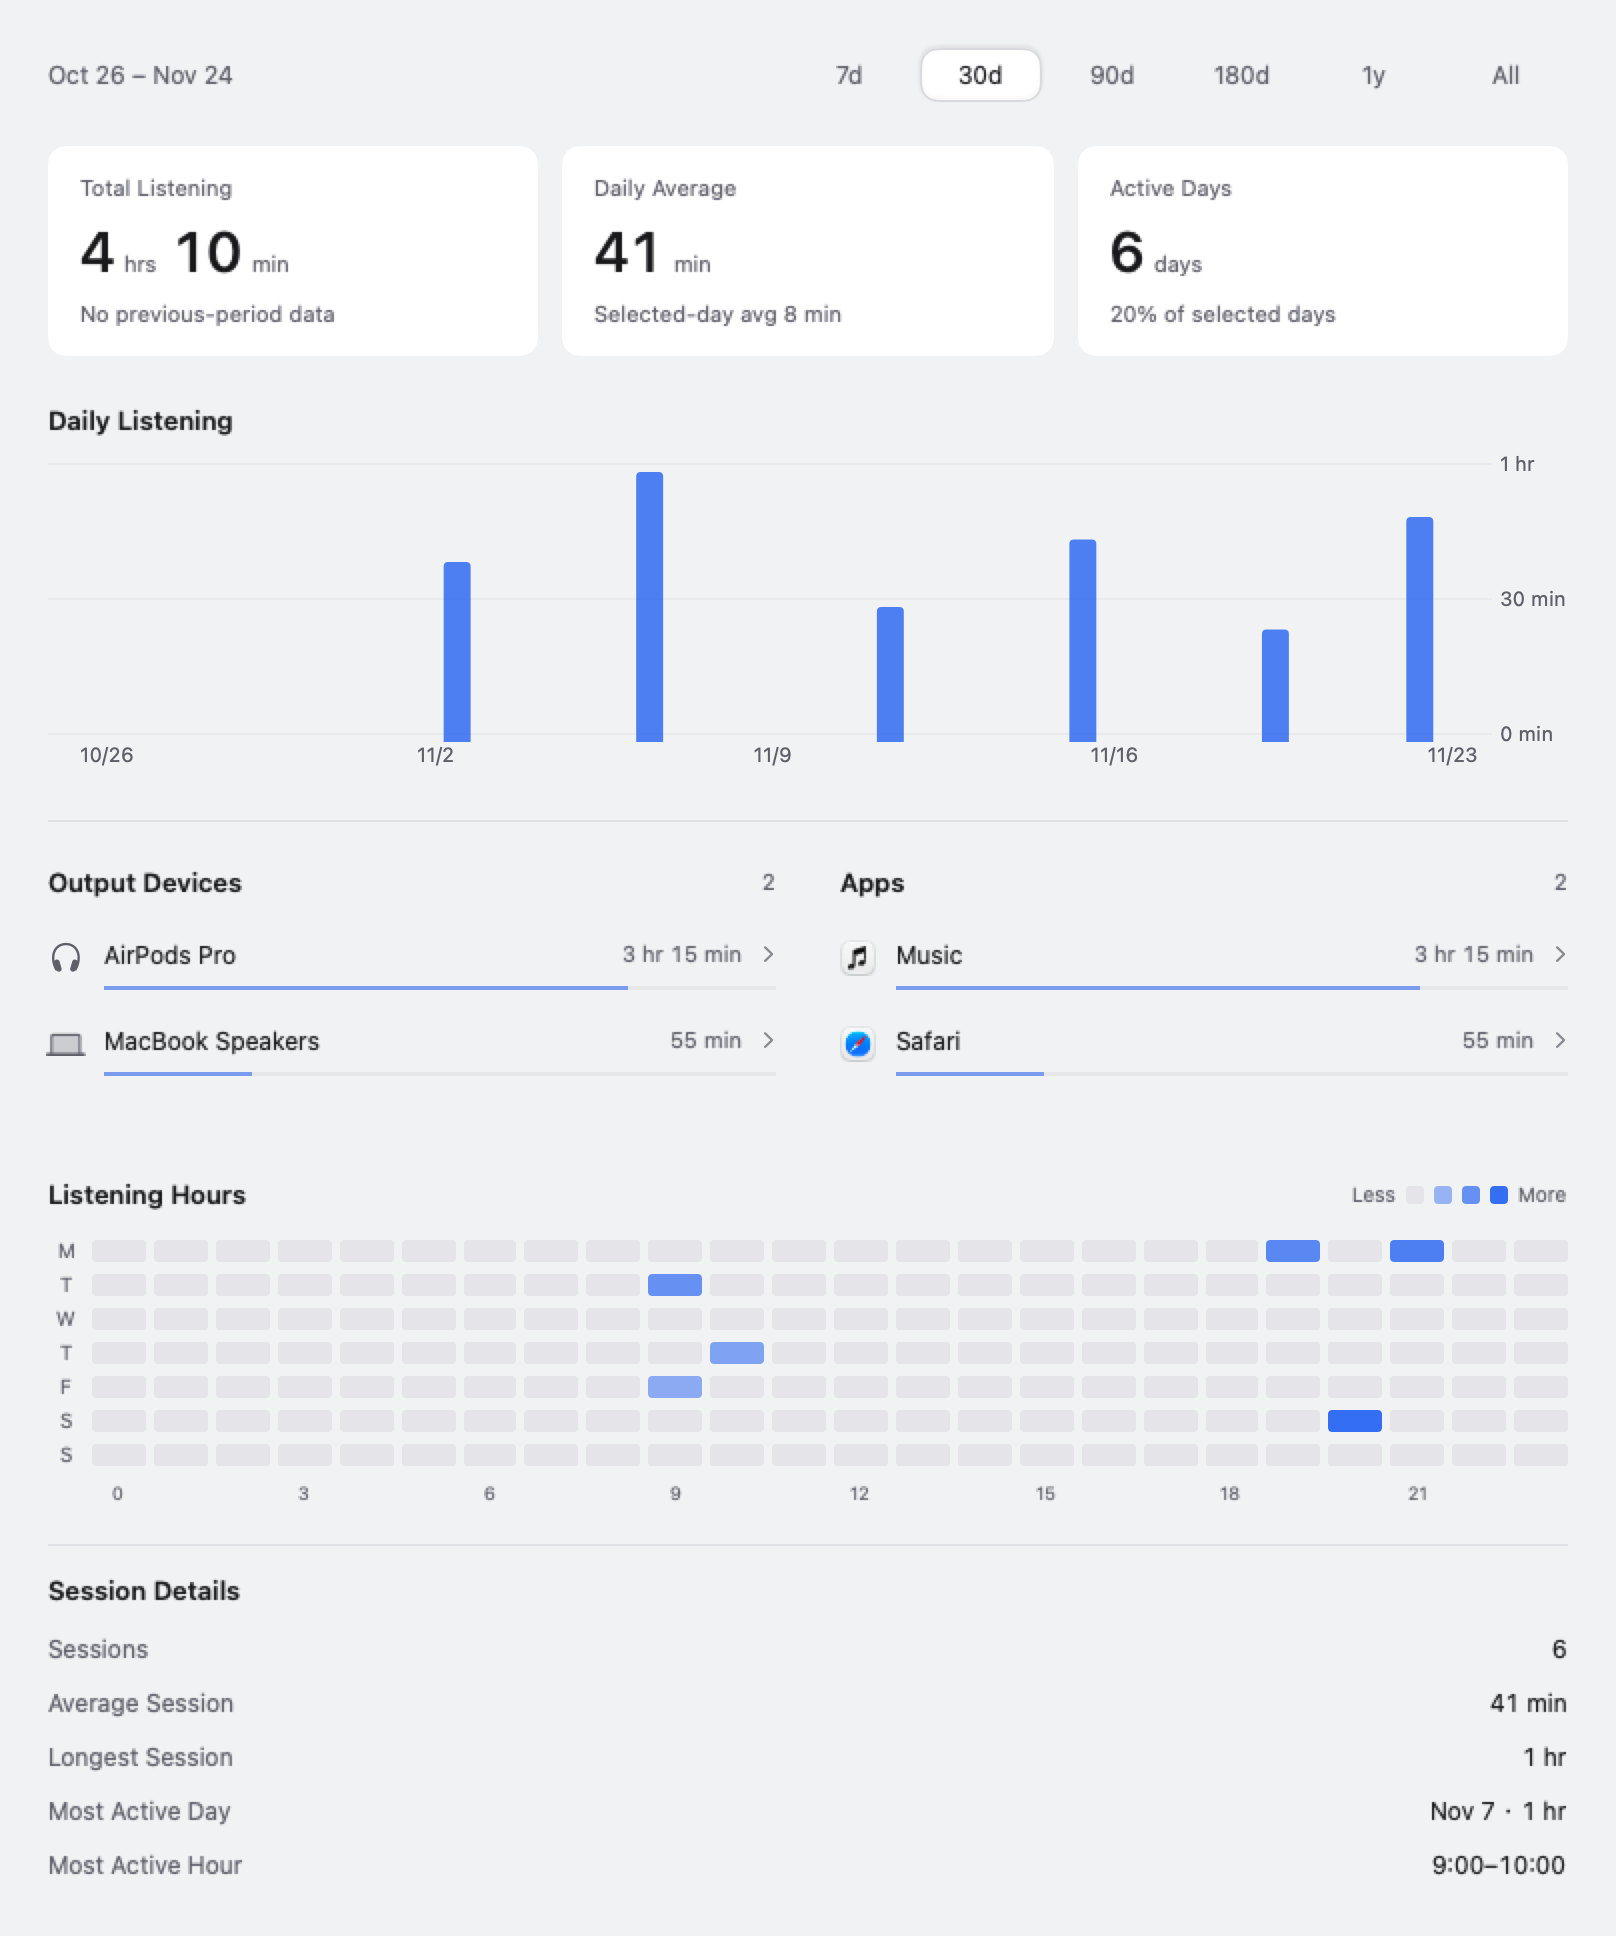
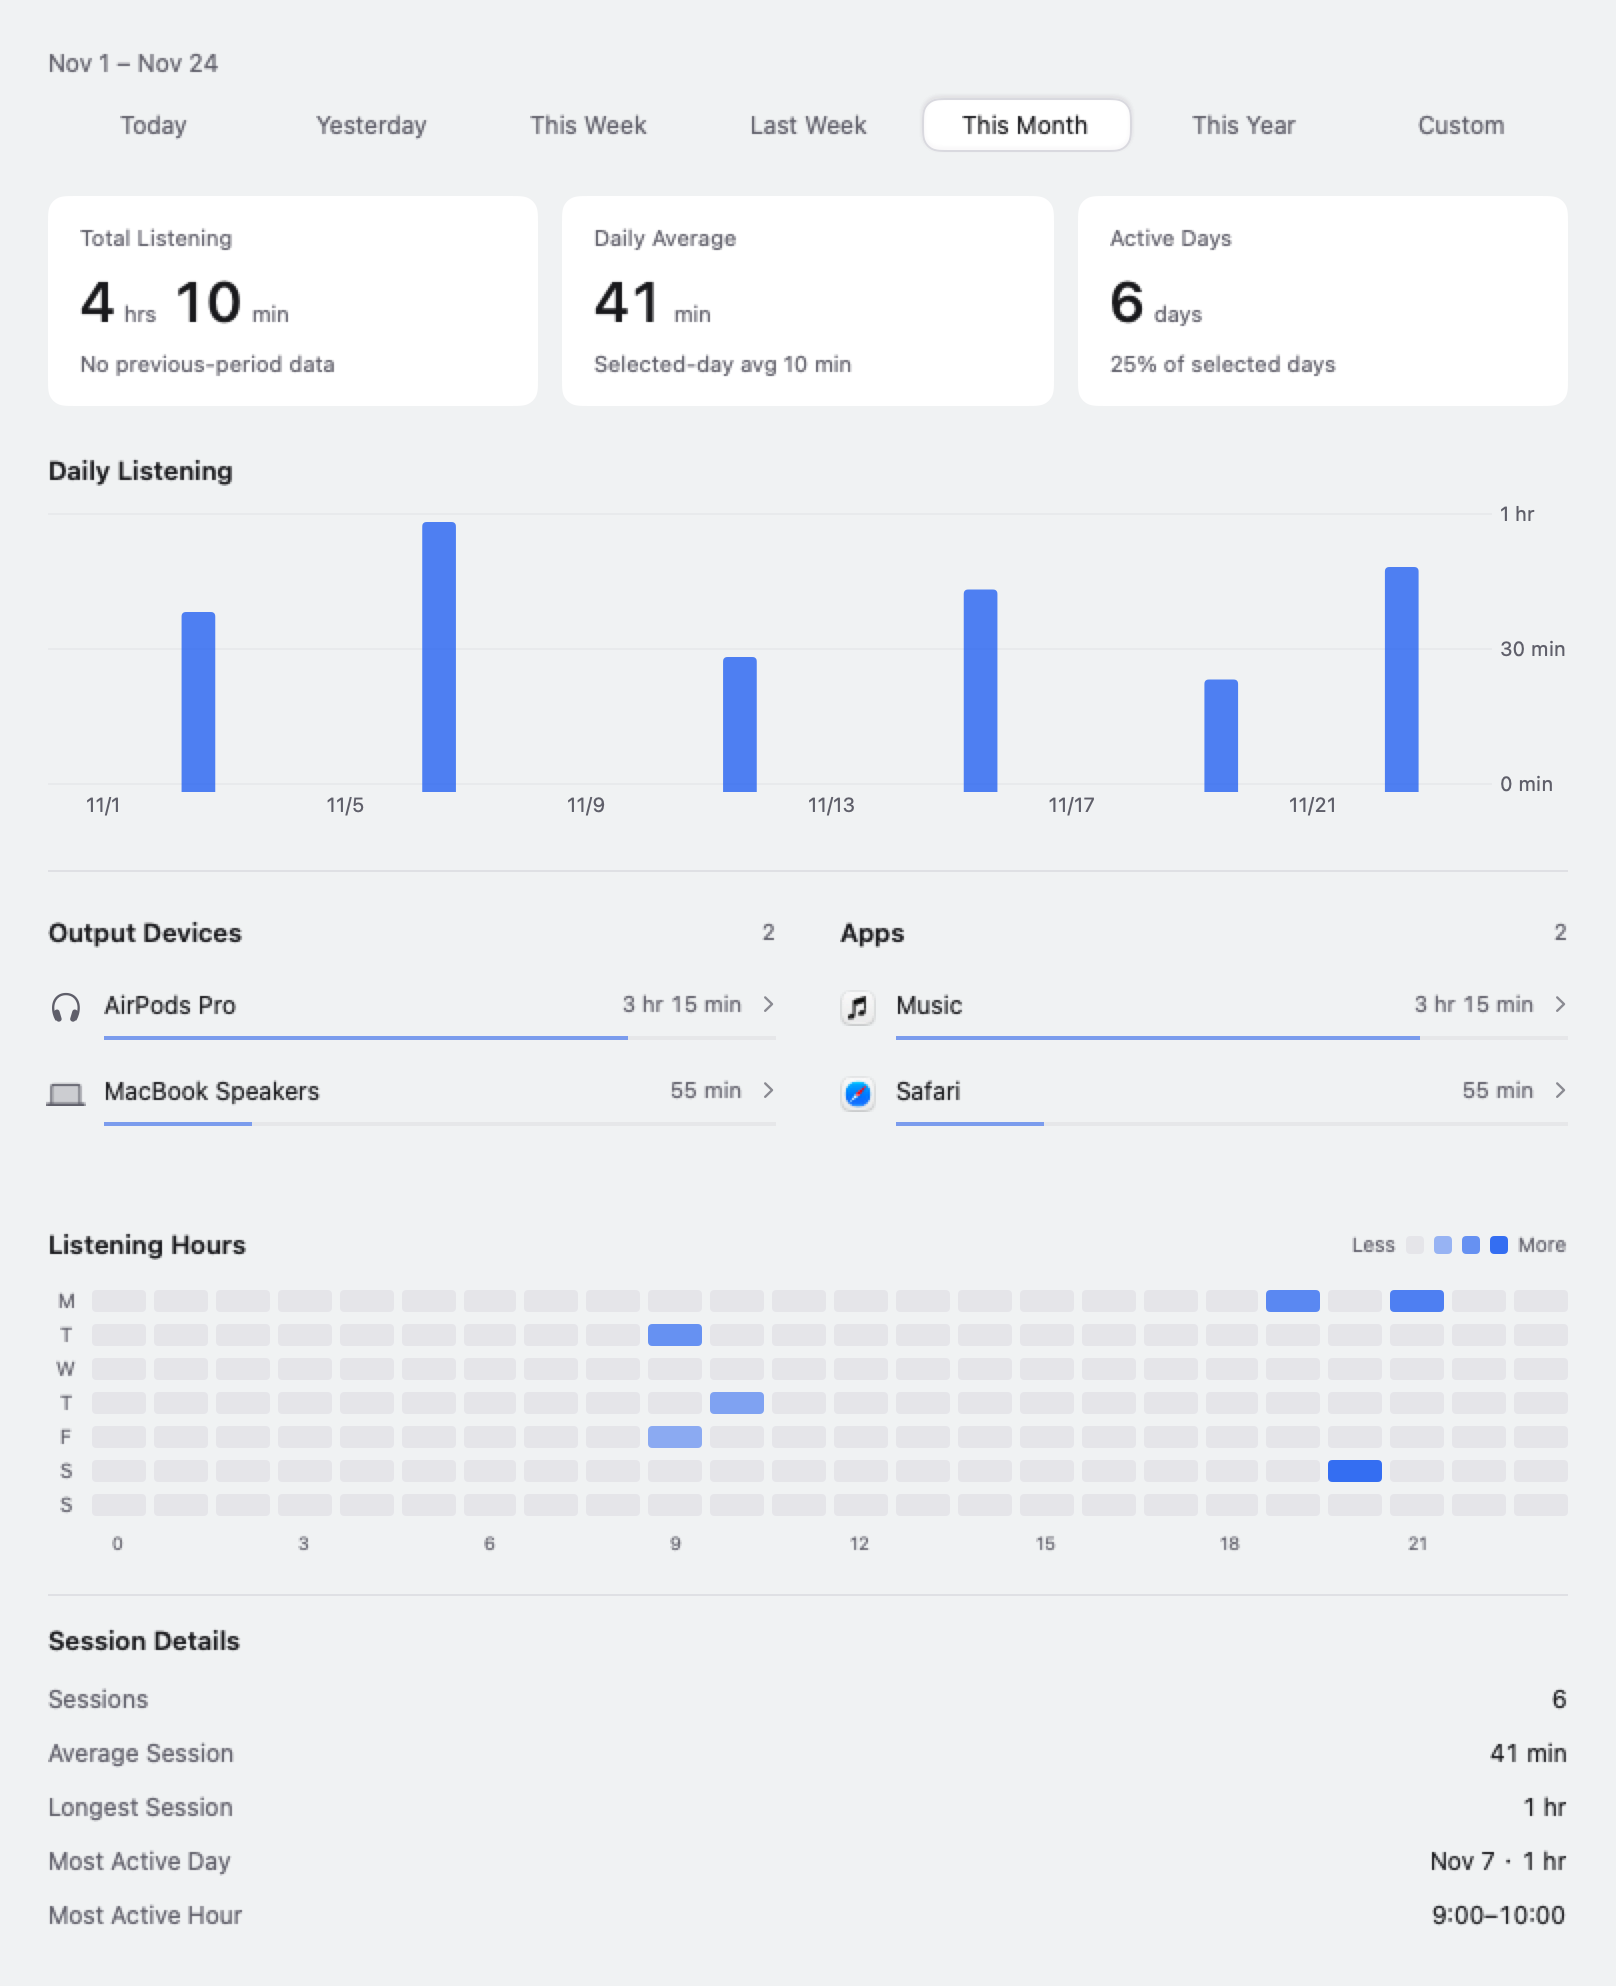
docs(readme): refresh version 0.4.7 previews
1. 更新中英文主面板与统计页截图
2. 核对其他功能截图并同步图片来源与版本标记

diff --git a/README.md b/README.md
@@ -18,9 +18,9 @@
   <a href="docs/CHANGELOG.md">What's changed</a>
 </p>
 <p align="center">
-  <a href="docs/images/hero-en.png"><img src="docs/images/hero-en.png?v=0.4.1" width="440" alt="Auxmo output panel with speaker and headphone controls, independent Chrome and Music volumes, and per-app route buttons" /></a>
+  <a href="docs/images/hero-en.png"><img src="docs/images/hero-en.png?v=0.4.7" width="440" alt="Auxmo output panel with speaker and headphone controls, independent Chrome and Music volumes, and per-app route buttons" /></a>
 </p>
-<p align="center"><sub>UI previews use sample devices and apps rendered by Auxmo 0.4.1, not a live audio session. <a href="docs/images/README.md">Image sources</a>.</sub></p>
+<p align="center"><sub>UI previews use sample devices and apps rendered by Auxmo 0.4.7, not a live audio session. <a href="docs/images/README.md">Image sources</a>.</sub></p>
 
 > Free and open source. No account required. Current downloads are ad-hoc signed and **not notarized by Apple**; macOS may block launch. [Distribution details](docs/TRUST_AND_TESTING.md#distribution-and-permissions).
 
@@ -39,24 +39,24 @@ Use **Mute All** at the top-right of the main panel to temporarily mute app audi
 <td width="50%" valign="top">
 <h3>Mix apps independently</h3>
 <p>Give Chrome and Music different volumes, mute either app, and see live levels while the panel is open.</p>
-<a href="docs/images/mixer-en.png"><img src="docs/images/mixer-en.png?v=0.4.1" width="440" alt="Separate Chrome and Music volume sliders with effects and routing buttons" /></a>
+<a href="docs/images/mixer-en.png"><img src="docs/images/mixer-en.png?v=0.4.7" width="440" alt="Separate Chrome and Music volume sliders with effects and routing buttons" /></a>
 </td>
 <td width="50%" valign="top">
 <h3>Choose more than one output</h3>
 <p>Build a speaker-and-headphone group, keep individual device controls, and choose a different subset for each app.</p>
-<a href="docs/images/outputs-en.png"><img src="docs/images/outputs-en.png?v=0.4.1" width="440" alt="Multi-device output editor with speakers and AirPods Pro selected" /></a>
+<a href="docs/images/outputs-en.png"><img src="docs/images/outputs-en.png?v=0.4.7" width="440" alt="Multi-device output editor with speakers and AirPods Pro selected" /></a>
 </td>
 </tr>
 <tr>
 <td width="50%" valign="top">
 <h3>Shape each app's sound</h3>
 <p>A 10-band EQ, spatial effects, volume leveling, and channel controls. Save presets and compare with the original.</p>
-<a href="docs/images/effects-en.png"><img src="docs/images/effects-en.png?v=0.4.1" width="440" alt="Music effects window showing the ten-band equalizer, response preview, and Compare Original control" /></a>
+<a href="docs/images/effects-en.png"><img src="docs/images/effects-en.png?v=0.4.7" width="440" alt="Music effects window showing the ten-band equalizer, response preview, and Compare Original control" /></a>
 </td>
 <td width="50%" valign="top">
 <h3>Keep headphone controls nearby</h3>
 <p>Check battery levels and change the listening modes your exact model exposes. Controls vary by device and firmware.</p>
-<a href="docs/images/headphones-en.png"><img src="docs/images/headphones-en.png?v=0.4.1" width="440" alt="Example headphone battery readings with noise cancellation, transparency, and adaptive controls" /></a>
+<a href="docs/images/headphones-en.png"><img src="docs/images/headphones-en.png?v=0.4.7" width="440" alt="Example headphone battery readings with noise cancellation, transparency, and adaptive controls" /></a>
 </td>
 </tr>
 </table>
@@ -66,9 +66,9 @@ Use **Mute All** at the top-right of the main panel to temporarily mute app audi
 Open the detail window from the menu bar and choose **Insights → Statistics** to see listening totals, daily trends, device and app rankings, listening hours, and session details. Choose today, yesterday, this week, last week, this month, this year, or a custom range; select a device or app to see its own details and related rankings.
 
 <p align="center">
-  <a href="docs/images/statistics-en.png"><img src="docs/images/statistics-en.png" width="820" alt="Auxmo listening statistics preview with time range, listening totals, daily chart, output devices, app rankings, and listening-hours heatmap" /></a>
+  <a href="docs/images/statistics-en.png"><img src="docs/images/statistics-en.png?v=0.4.7" width="820" alt="Auxmo listening statistics preview with time range, listening totals, daily chart, output devices, app rankings, and listening-hours heatmap" /></a>
 </p>
-<p align="center"><sub>Statistics preview rendered from the 0.4.5 development version with sample data, not a real user's records. <a href="docs/images/README.md">Image sources</a>.</sub></p>
+<p align="center"><sub>Statistics preview rendered from version 0.4.7 with sample data, not a real user's records. <a href="docs/images/README.md">Image sources</a>.</sub></p>
 
 Statistics record audio activity observed while Auxmo runs on the Mac and are stored locally. They are not complete screen-time data and do not read iPhone Health data. App-to-device associations use confirmed output routes; historical records, sampling intervals, and session boundaries remain estimates. In **Settings → Statistics Data**, you can see the first recorded date, export JSON, or clear the records after confirmation.
 

diff --git a/README.zh-CN.md b/README.zh-CN.md
@@ -18,9 +18,9 @@
   <a href="docs/CHANGELOG.md">更新记录</a>
 </p>
 <p align="center">
-  <a href="docs/images/hero-zh.png"><img src="docs/images/hero-zh.png?v=0.4.1" width="440" alt="Auxmo 主面板：扬声器、耳机、多设备输出，以及 Chrome 和 Music 的独立音量与路由按钮" /></a>
+  <a href="docs/images/hero-zh.png"><img src="docs/images/hero-zh.png?v=0.4.7" width="440" alt="Auxmo 主面板：扬声器、耳机、多设备输出，以及 Chrome 和 Music 的独立音量与路由按钮" /></a>
 </p>
-<p align="center"><sub>界面预览由 Auxmo 0.4.1 使用示例设备和应用数据渲染，并非实时音频会话。<a href="docs/images/README.md">图片来源</a>。</sub></p>
+<p align="center"><sub>界面预览由 Auxmo 0.4.7 使用示例设备和应用数据渲染，并非实时音频会话。<a href="docs/images/README.md">图片来源</a>。</sub></p>
 
 > 免费、开源，无需账号。当前下载包使用 ad-hoc 签名，**尚未经过 Apple 公证**，macOS 可能阻止启动。[分发与权限说明](docs/TRUST_AND_TESTING.md#中文说明)。
 
@@ -39,24 +39,24 @@
 <td width="50%" valign="top">
 <h3>每个 App，单独调节</h3>
 <p>给 Chrome 和 Music 设置不同音量，单独静音；面板打开时可查看实时电平。</p>
-<a href="docs/images/mixer-zh.png"><img src="docs/images/mixer-zh.png?v=0.4.1" width="440" alt="Chrome 与 Music 的独立音量滑杆、音效和路由入口" /></a>
+<a href="docs/images/mixer-zh.png"><img src="docs/images/mixer-zh.png?v=0.4.7" width="440" alt="Chrome 与 Music 的独立音量滑杆、音效和路由入口" /></a>
 </td>
 <td width="50%" valign="top">
 <h3>一个输出组，多种去向</h3>
 <p>把扬声器和耳机加入同一组，保留各设备的独立控制，再为每个 App 选择组内输出。</p>
-<a href="docs/images/outputs-zh.png"><img src="docs/images/outputs-zh.png?v=0.4.1" width="440" alt="多设备输出编辑器中同时勾选 MacBook 扬声器与 AirPods Pro" /></a>
+<a href="docs/images/outputs-zh.png"><img src="docs/images/outputs-zh.png?v=0.4.7" width="440" alt="多设备输出编辑器中同时勾选 MacBook 扬声器与 AirPods Pro" /></a>
 </td>
 </tr>
 <tr>
 <td width="50%" valign="top">
 <h3>按 App 调整听感</h3>
 <p>十段 EQ、空间效果、音量均衡与声道控制。保存自己的预设，也能随时对比原声。</p>
-<a href="docs/images/effects-zh.png"><img src="docs/images/effects-zh.png?v=0.4.1" width="440" alt="Music 音效窗口：十段均衡器、频响预览与对比原声按钮" /></a>
+<a href="docs/images/effects-zh.png"><img src="docs/images/effects-zh.png?v=0.4.7" width="440" alt="Music 音效窗口：十段均衡器、频响预览与对比原声按钮" /></a>
 </td>
 <td width="50%" valign="top">
 <h3>耳机控制，抬手就到</h3>
 <p>查看电量、切换当前型号公开的噪声模式。可用控制项取决于具体设备和固件。</p>
-<a href="docs/images/headphones-zh.png"><img src="docs/images/headphones-zh.png?v=0.4.1" width="440" alt="耳机控制示例：左右耳与充电盒电量、降噪、通透和自适应模式" /></a>
+<a href="docs/images/headphones-zh.png"><img src="docs/images/headphones-zh.png?v=0.4.7" width="440" alt="耳机控制示例：左右耳与充电盒电量、降噪、通透和自适应模式" /></a>
 </td>
 </tr>
 </table>
@@ -66,9 +66,9 @@
 从菜单栏打开详情，选择 **观测 → 统计**，查看累计时长、每日趋势、设备与 App 排行、使用时段和会话明细。可切换今天、昨天、本周、上周、本月、今年或自定义日期范围；点击设备或 App 可以查看对应详情和关联排行。
 
 <p align="center">
-  <a href="docs/images/statistics-zh.png"><img src="docs/images/statistics-zh.png" width="820" alt="Auxmo 聆听统计预览：时间范围、累计时长、每日柱状图、输出设备、应用排行与使用时段热力图" /></a>
+  <a href="docs/images/statistics-zh.png"><img src="docs/images/statistics-zh.png?v=0.4.7" width="820" alt="Auxmo 聆听统计预览：时间范围、累计时长、每日柱状图、输出设备、应用排行与使用时段热力图" /></a>
 </p>
-<p align="center"><sub>统计页预览使用 0.4.5 开发版和示例数据，不是实际用户记录。<a href="docs/images/README.md">图片来源</a>。</sub></p>
+<p align="center"><sub>统计页预览使用 0.4.7 版本和示例数据，不是实际用户记录。<a href="docs/images/README.md">图片来源</a>。</sub></p>
 
 统计只记录 Auxmo 在 Mac 上运行时观察到的音频活动，数据保存在本机；它不是完整的屏幕使用时长，也不读取 iPhone 健康数据。应用与设备关系依据可确认的输出路由记录；历史记录、采样间隔和会话划分仍有估算误差。可在 **设置 → 统计数据** 查看记录起始日期、导出 JSON 或确认后清除记录。
 

diff --git a/docs/images/README.md b/docs/images/README.md
@@ -1,13 +1,13 @@
 # README image sources / 图片来源
 
-The PNGs are native renders of Auxmo's current SwiftUI/AppKit views using the in-memory fixture in [`ReadmePreviewTests.swift`](../../Tests/AuxmoPanelTests/ReadmePreviewTests.swift). They are **UI previews, not captures of a live playback session or proof of hardware compatibility**. Device names, app identities, volume values, battery values, and control replies are illustrative.
+The PNGs are native renders of Auxmo 0.4.7 SwiftUI/AppKit views using isolated fixtures in [`ReadmePreviewTests.swift`](../../Tests/AuxmoPanelTests/ReadmePreviewTests.swift) and [`StatisticsReadmePreviewTests.swift`](../../Tests/AuxmoPanelTests/StatisticsReadmePreviewTests.swift). They are **UI previews, not captures of a live playback session or proof of hardware compatibility**. Device names, app identities, volume values, battery values, and control replies are illustrative.
 
 - `hero-{en,zh}.png`: the actual `AudioPanel` with a two-member group and two example apps.
 - `mixer-{en,zh}.png`: `ApplicationVolumeSection`.
 - `outputs-{en,zh}.png`: `SimultaneousOutputEditor`.
 - `effects-{en,zh}.png`: `ApplicationAudioEffectView`.
 - `headphones-{en,zh}.png`: `HeadphoneSection` using injected Apple headphone readings.
-- `statistics-{en,zh}.png`: `ListeningStatisticsView`, rendered from the 0.4.5 development version with isolated sample records; they do not contain real user data.
+- `statistics-{en,zh}.png`: `ListeningStatisticsView`, rendered from version 0.4.7 with isolated sample records; they do not contain real user data.
 - `routing-{en,zh}.svg`: a hand-authored configuration diagram, **not an application screenshot**. It assumes both target devices are online.
 
 Regenerate the PNGs on macOS with the Swift 6 toolchain:
@@ -22,6 +22,6 @@ When updating images, inspect both languages, check the UI version, and retain t
 
 ## 中文
 
-PNG 来自真实界面的原生渲染，统计图由 0.4.5 开发版渲染，其他图片的版本见首页说明；数据由隔离夹具提供，不是实时播放录屏，也不能证明某个耳机型号已通过真机测试。设备、App、音量、电量与模式均为示例。SVG 是手写的在线设备路由示意，不是界面截图。
+PNG 均由 Auxmo 0.4.7 的真实界面原生渲染；数据由隔离夹具提供，不是实时播放录屏，也不能证明某个耳机型号已通过真机测试。设备、App、音量、电量与模式均为示例。SVG 是手写的在线设备路由示意，不是界面截图。
 
 运行上面的脚本可重新生成双语图片。每种语言使用独立测试进程，只覆盖进程内参数，不修改用户保存的偏好，不播放或捕获音频、不连接蓝牙、不切换宿主设备。普通门禁不执行图片导出；原有回归测试没有被跳过或改弱。更新后请检查图片并保留来源说明。
